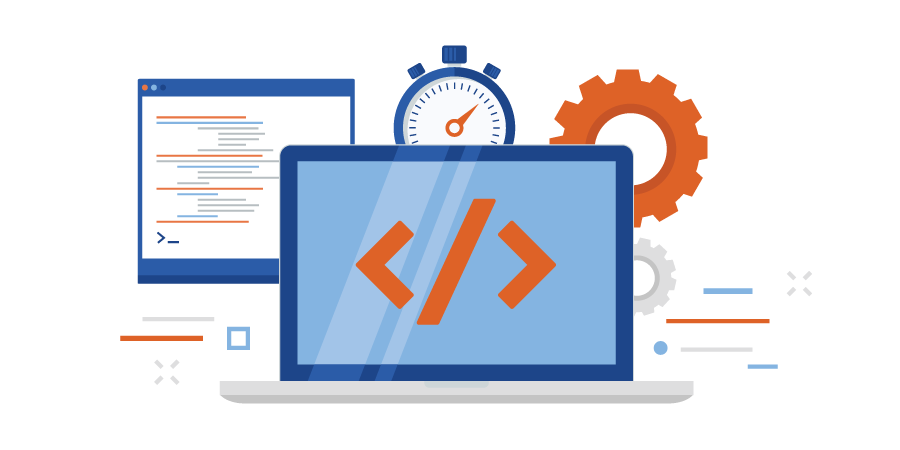
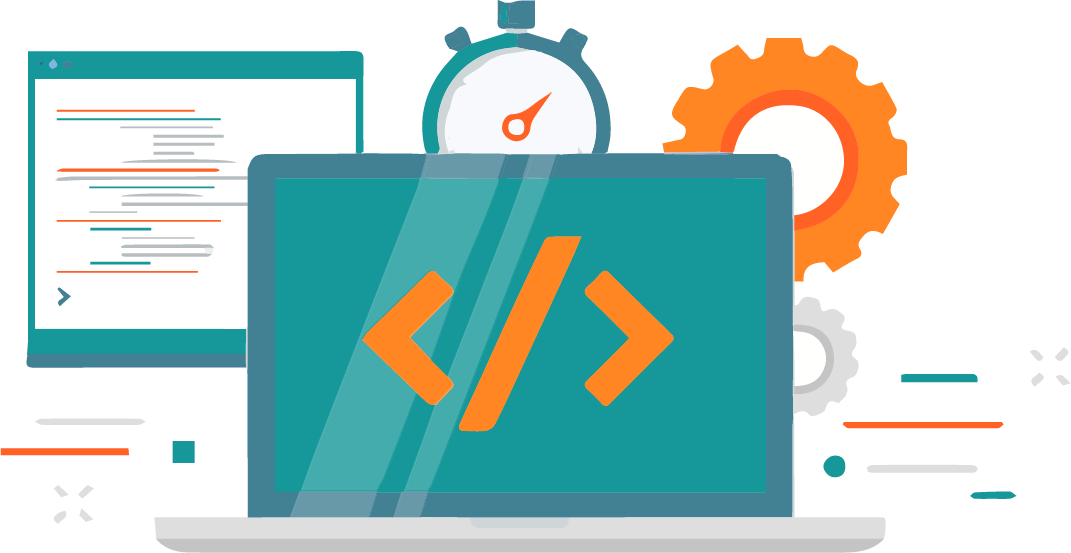
commentaire

diff --git a/index.html b/index.html
@@ -18,6 +18,7 @@
 
 <body>
     <script src="https://kit.fontawesome.com/edd4004453.js" crossorigin="anonymous"></script>
+  <!-- Header -->
     <div id="content">
         <header class="test">
             <section>
@@ -31,10 +32,11 @@
                     </ul>
                 </nav>
                 <aside>
-                    <img src="img/4Fichier_82x.png" alt="En-tête julien" class="header-image">
+                    <img src="img/Header.png" alt="En-tête julien" class="header-image">
                 </aside>
             </section>
-            <section class="content1 green-box">
+            <!-- Efficacité Flexibilité Expérience -->
+            <section class="content1 qualite-box">
                 <article class="logo-box">
                     <aside>
                         <img src="img/efficacite.png" style="width: 6vw" alt="efficacité">
@@ -63,6 +65,7 @@
             </section>
         </header>
         <main>
+            <!-- Main : Mes connaissances -->
             <section>
                 <h2 class="envies">MES CONNAISSANCES</h2>
                 <article class="main1">
@@ -130,33 +133,35 @@
                     </section>
                 </article>
             </section>
-                <div id="a-propos"></div>            
-                <section>
-                <h2 class="envies">À PROPOS</h2>
-                    <article class="main1">
-                        <section class="main1a">
-                            <h3>Un développeur web passionné !</h3>
-                            <p>Ma passion pour le développement web a commencé en 2022 et m'a demandé un changement radical
-                                de
-                                cursus afin de pouvoir pleinement l'exploiter.</p>
-                            <p>Dès lors, je mis tout en oeuvre pour percer dans cette voie.</p>
-                            <p>En Février 2023, je décide de suivre une formation de développeur web et accessibilité qui
-                                est «
-                                full-stack ».</p>
-                        </section>
-                        <section class="main1b">
-                            <img src="img/a-propos.png" alt="différent logo informatique" style="width: 70vh;">
-                        </section>
-                        <section class="main1cb">
-                            <h3>Expérience en développement</h3>
-                            <p>Mon expérience acquise au fil de ma formation me permet de mieux comprendre les attentes d'un
-                                client et de répondre précisement au besoin demandé en fonction du domaine d'activité.</p>
-                            <p>Du site vitrine au projet plus complexe, je vous propose un développement web qui correspond
-                                à
-                                vos attentes et à vos besoins.</p>
-                        </section>
-                    </article>
-                </section>
+            <!-- Main : A-propos -->
+            <div id="a-propos"></div>            
+            <section>
+            <h2 class="envies">À PROPOS</h2>
+                <article class="main1">
+                    <section class="main1a">
+                        <h3>Un développeur web passionné !</h3>
+                        <p>Ma passion pour le développement web a commencé en 2022 et m'a demandé un changement radical
+                            de
+                            cursus afin de pouvoir pleinement l'exploiter.</p>
+                        <p>Dès lors, je mis tout en oeuvre pour percer dans cette voie.</p>
+                        <p>En Février 2023, je décide de suivre une formation de développeur web et accessibilité qui
+                            est «
+                            full-stack ».</p>
+                    </section>
+                    <section class="main1b">
+                        <img src="img/a-propos.png" alt="différent logo informatique" style="width: 70vh;">
+                    </section>
+                    <section class="main1cb">
+                        <h3>Expérience en développement</h3>
+                        <p>Mon expérience acquise au fil de ma formation me permet de mieux comprendre les attentes d'un
+                            client et de répondre précisement au besoin demandé en fonction du domaine d'activité.</p>
+                        <p>Du site vitrine au projet plus complexe, je vous propose un développement web qui correspond
+                            à
+                            vos attentes et à vos besoins.</p>
+                    </section>
+                </article>
+            </section>
+            <!-- Main : Envie Projet Contact -->
             <section>
                 <h2 class="envies" id="contact1">DES ENVIES ? DES PROJETS ? CONTACTEZ-MOI !</h2>
                 <article class="content2">
@@ -206,7 +211,7 @@
 
             </section>
         </main>
-
+        <!-- Footer -->
         <footer class="pied-de-page">
             <section>
                 <article>

diff --git a/index.css b/index.css
@@ -1,29 +1,24 @@
-/* NavBar */
 body{
-    margin: 0;
-    font-family: 'Roboto', sans-serif;
-    font-size: 15px;
+  margin: 0;
+  font-family: 'Roboto', sans-serif;
+  font-size: 15px;
+}
 
-}
-.header-image{
-    width: 100%;
-    max-width: 2000px;
-    padding-bottom: 6em;
-}
+/* Header */
+
+  /* NavBar */
+
 .nav {
-    list-style-type: none;
-    margin: 0;
-    padding: 0;
-    overflow: hidden;
-    background-color: #FF8522; 
-    z-index: 3;
-    
+  list-style-type: none;
+  margin: 0;
+  padding: 0;
+  overflow: hidden;
+  background-color: #FF8522; 
+  z-index: 3;    
 }
-
 .bar {
   float: left;
 }
-
 .bar a {
   display: block;
   color: #ffffff;
@@ -32,112 +27,119 @@ body{
   text-decoration: none;
   font-weight: bolder;
 }
-
 ul {
   position: fixed;
   top: 0;
   width: 100%;
-  opacity: 80%;
-
 }
-/* Change the link color to #111 (black) on hover */
 .bar a:hover {
   background-color: #ffffff;
   color: #FF8522;
   font-weight: bolder;
 }
-/* responsive navbar */
+
+  /* responsive navbar */
 
 @media screen and (max-width: 600px) {
   .nav li.right, 
   .nav li {float: none;}
 }
-/* fin responsive navbar */
-/* NavBar */
 
-/* qualité */
-.test{
-    position: relative;
+  /* Image header */
+
+.header-image{
+  width: 100%;
+  max-width: 2000px;
+  padding-bottom: 6em;
 }
 .header-image{
-    position: relative;
-    z-index: 1;
-    width: 100%;
-    max-width: 2000px;
-    padding-bottom: 6em;
+  position: relative;
+  z-index: 1;
+  width: 100%;
+  max-width: 2000px;
+  padding-bottom: 6em;
   }
-.green-box {
-    position: absolute;
-    z-index: 2; /* green box will be above black box */
-    width: 65%;    
-    top: 550px;
+.qualite-box {
+  position: absolute;
+  z-index: 2;
+  width: 65%;    
+  top: 550px;
 }
+
+  /* qualité */
+
 .content1 {
-    display: flex;
-    justify-content: space-between;
-    text-align: center;      
+  display: flex;
+  justify-content: space-between;
+  text-align: center;      
 }
 .logo-box{
     padding: 15px 100px;
   }
 
-  /* qualité fin */
-  /* main 1 */
-.main1{
-    padding-left: 10em;
-    padding-right: 10em;
-    display: flex;
-    min-height: auto;
-}
-.main1a{
-    margin: auto;   
-    text-align: right;
-}
-.main1ab{
-    margin: auto;
-    height: 80px;
-    display: flex;
-    flex-direction: column;
-    justify-content: center;
-}
-.main1b{
-    margin: auto;
-}
-.main1cb{
-    margin: auto;
-}
-.main1c{
-    margin: auto; 
-}
+/* Header fin */
 
+
+/* main */
+
+  /* Mise en page de mes connaissances et a propos */
 
 .horizontal1{
-    display: flex;
-
+  display: flex;
 }
 .vertical1{
-    height: 80px;
-    display: flex;
-    flex-direction: column;
-    justify-content: center;
-    margin-right: 3em;
-    
+  height: 80px;
+  display: flex;
+  flex-direction: column;
+  justify-content: center;
+  margin-right: 3em;    
 }
 .vertical2{
-    height: 80px;
-    display: flex;
-    flex-direction: column;
-    justify-content: center;
+  height: 80px;
+  display: flex;
+  flex-direction: column;
+  justify-content: center;
+}
+  
+  /* Mes connaissances */
 
+.main1{
+  padding-left: 10em;
+  padding-right: 10em;
+  display: flex;
+  min-height: auto;
 }
+.main1a{
+  margin: auto;   
+  text-align: right;
+}
+
+  /* Mes connaissances logo */
+
 .mainlogo1{
-    margin-top: 2em;
+  margin-top: 2em;
 }
+
+  /* A propos */
+.main1b{
+  margin: auto;
+}
+.main1cb{
+  margin: auto;
+}
+.main1c{
+  margin: auto; 
+}
+
 .mainlogo2{
     margin-right: 3em;
     margin-top: 2em;
 }
-  /* renseignement */
+
+/* Header fin */
+
+/* Des envies ? Des projets ? */
+
 .envies{
     border: 1px solid #FF8522;
     margin: 5em;
@@ -184,7 +186,7 @@ input, textarea {
 }
 
 
-  /* renseignement fin */
+  /* Des envies ? Des projets ? fin */
 
   /* footer */
 .pied-de-page{  
